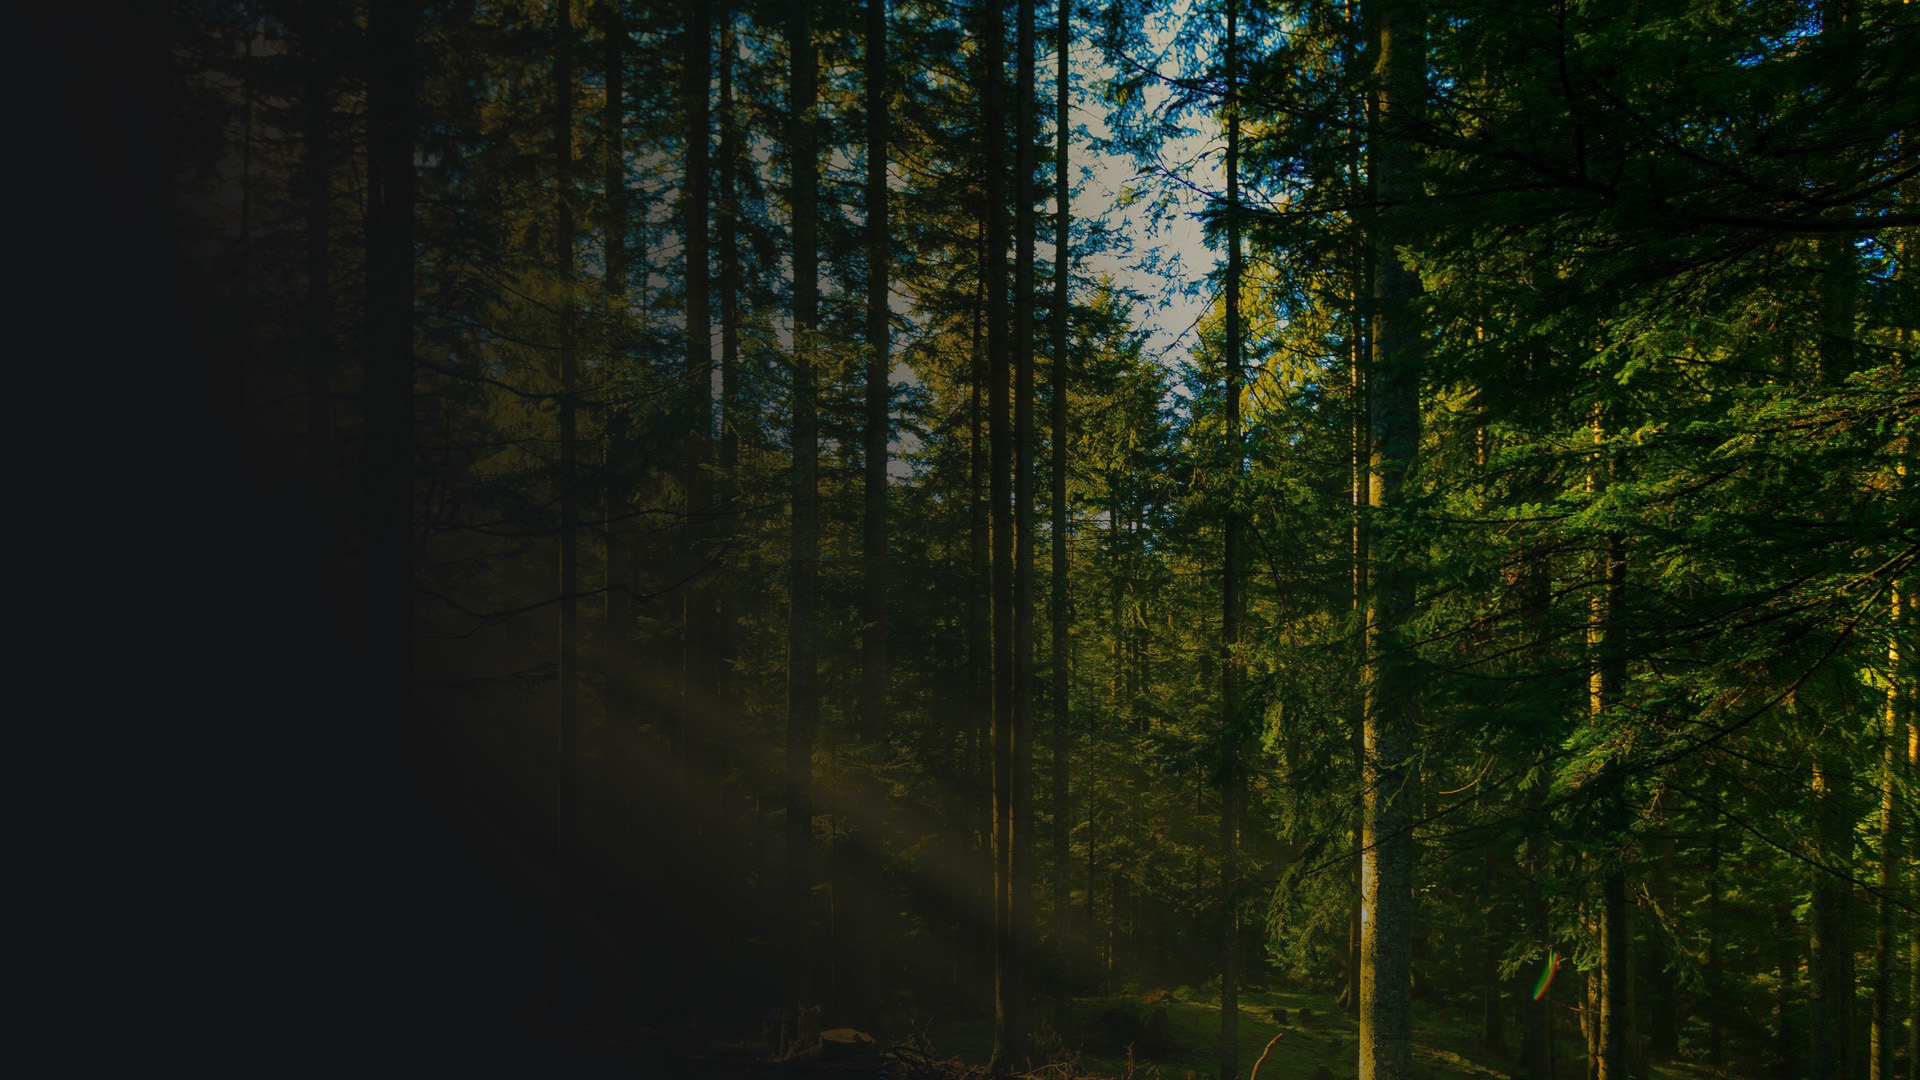
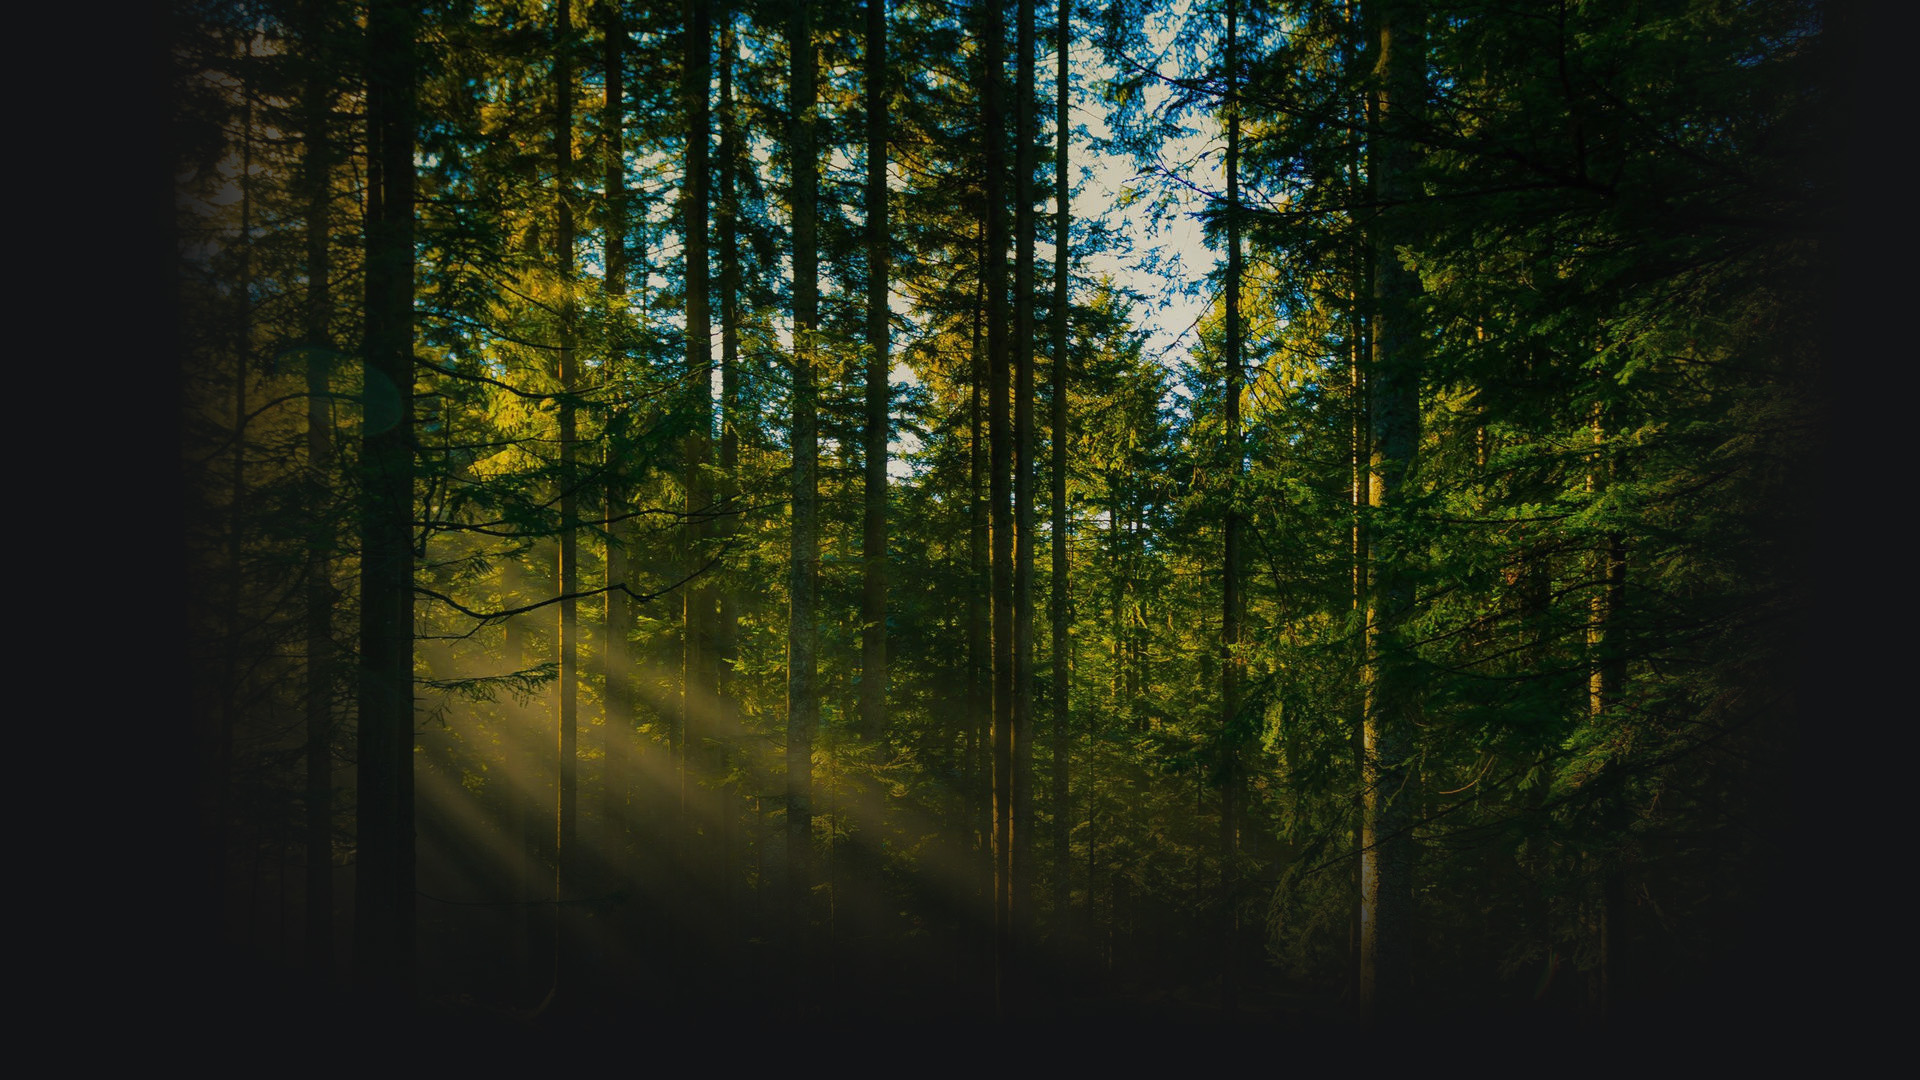
refactor: change background for sections

diff --git a/src/sass/components/portfolio/_portfolio.scss b/src/sass/components/portfolio/_portfolio.scss
@@ -12,7 +12,7 @@
   background-image: url('./img/portfolio-1.jpg');
   background-repeat: no-repeat;
   background-position: top center;
-  background-size: cover;
+  background-size: contain;
   background-color: transparent;
   opacity: 0.9;
   transition: opacity 0.5s ease;

diff --git a/src/sass/components/about/_about.scss b/src/sass/components/about/_about.scss
@@ -11,7 +11,7 @@
   background-image: url('./img/forest-1.jpg');
   background-repeat: no-repeat;
   background-position: top center;
-  background-size: cover;
+  background-size: contain;
   background-color: transparent;
   opacity: 0.9;
 }
